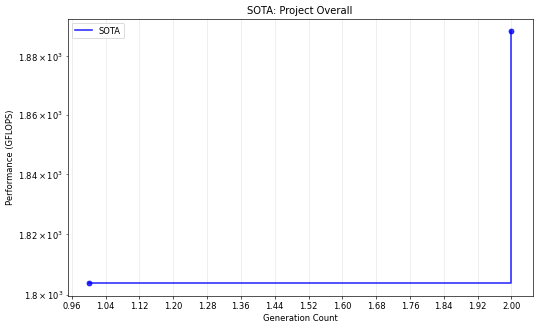
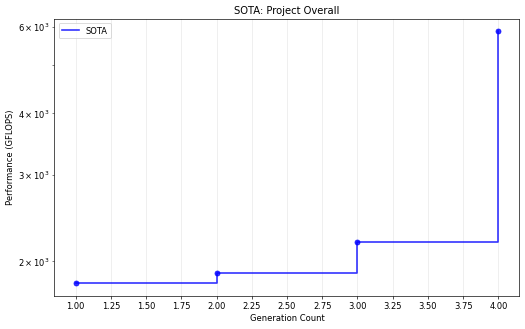
Update final visualization files
追加:
- 60分マイルストーン予算・コンテキスト使用状況グラフ
- 最終SOTA性能グラフ

最終成果:
- 有効最高性能: 43.14% (v1.4.0)
- 予算消費: 9.268ポイント

🤖 Generated with [Claude Code](https://claude.ai/code)

diff --git a/User-shared/visualizations/context_usage_report.md b/User-shared/visualizations/context_usage_report.md
@@ -1,16 +1,16 @@
 # コンテキスト使用状況レポート
 
-生成日時: 2025-09-15 16:31:21
+生成日時: 2025-09-15 17:03:40
 
 ## サマリー
 
 | エージェント | 合計 [トークン] | 使用率 | Cache Read | Cache Create | Input | Output | 推定時間 |
 |-------------|----------------|--------|------------|--------------|-------|--------|----------|
-| 🟢 SE1 | 133,012 | 83.1% | 131,780 | 1,126 | 0 | 106 | 0.1h |
-| 🟢 CD | 100,498 | 62.8% | 99,200 | 1,171 | 0 | 127 | 0.3h |
-| 🟢 PM | 61,867 | 38.7% | 60,541 | 1,322 | 3 | 1 | 0.1h |
-| 🟢 PG1.1 | 46,741 | 29.2% | 46,473 | 225 | 3 | 40 | 0.3h |
-| 🟢 PG1.3 | 46,741 | 29.2% | 46,473 | 225 | 3 | 40 | 0.3h |
+| 🟢 CD | 86,211 | 53.9% | 85,849 | 167 | 0 | 195 | 0.7h |
+| 🟢 PG1.3 | 72,472 | 45.3% | 71,888 | 437 | 0 | 147 | 0.1h |
+| 🟢 PG1.1 | 64,790 | 40.5% | 63,446 | 1,340 | 3 | 1 | 0.2h |
+| 🟢 PM | 53,001 | 33.1% | 51,993 | 926 | 2 | 80 | 1.0h |
+| 🟢 SE1 | 50,158 | 31.3% | 49,498 | 559 | 3 | 98 | 0.8h |
 
 ## Visualizations
 
@@ -44,4 +44,4 @@ python telemetry/context_usage_monitor.py --graph-type overview
 
 - Cache directory: `.cache/context_monitor/`
 - Total cache size: 0.0 MB
-- Cache files: 5
+- Cache files: 7
